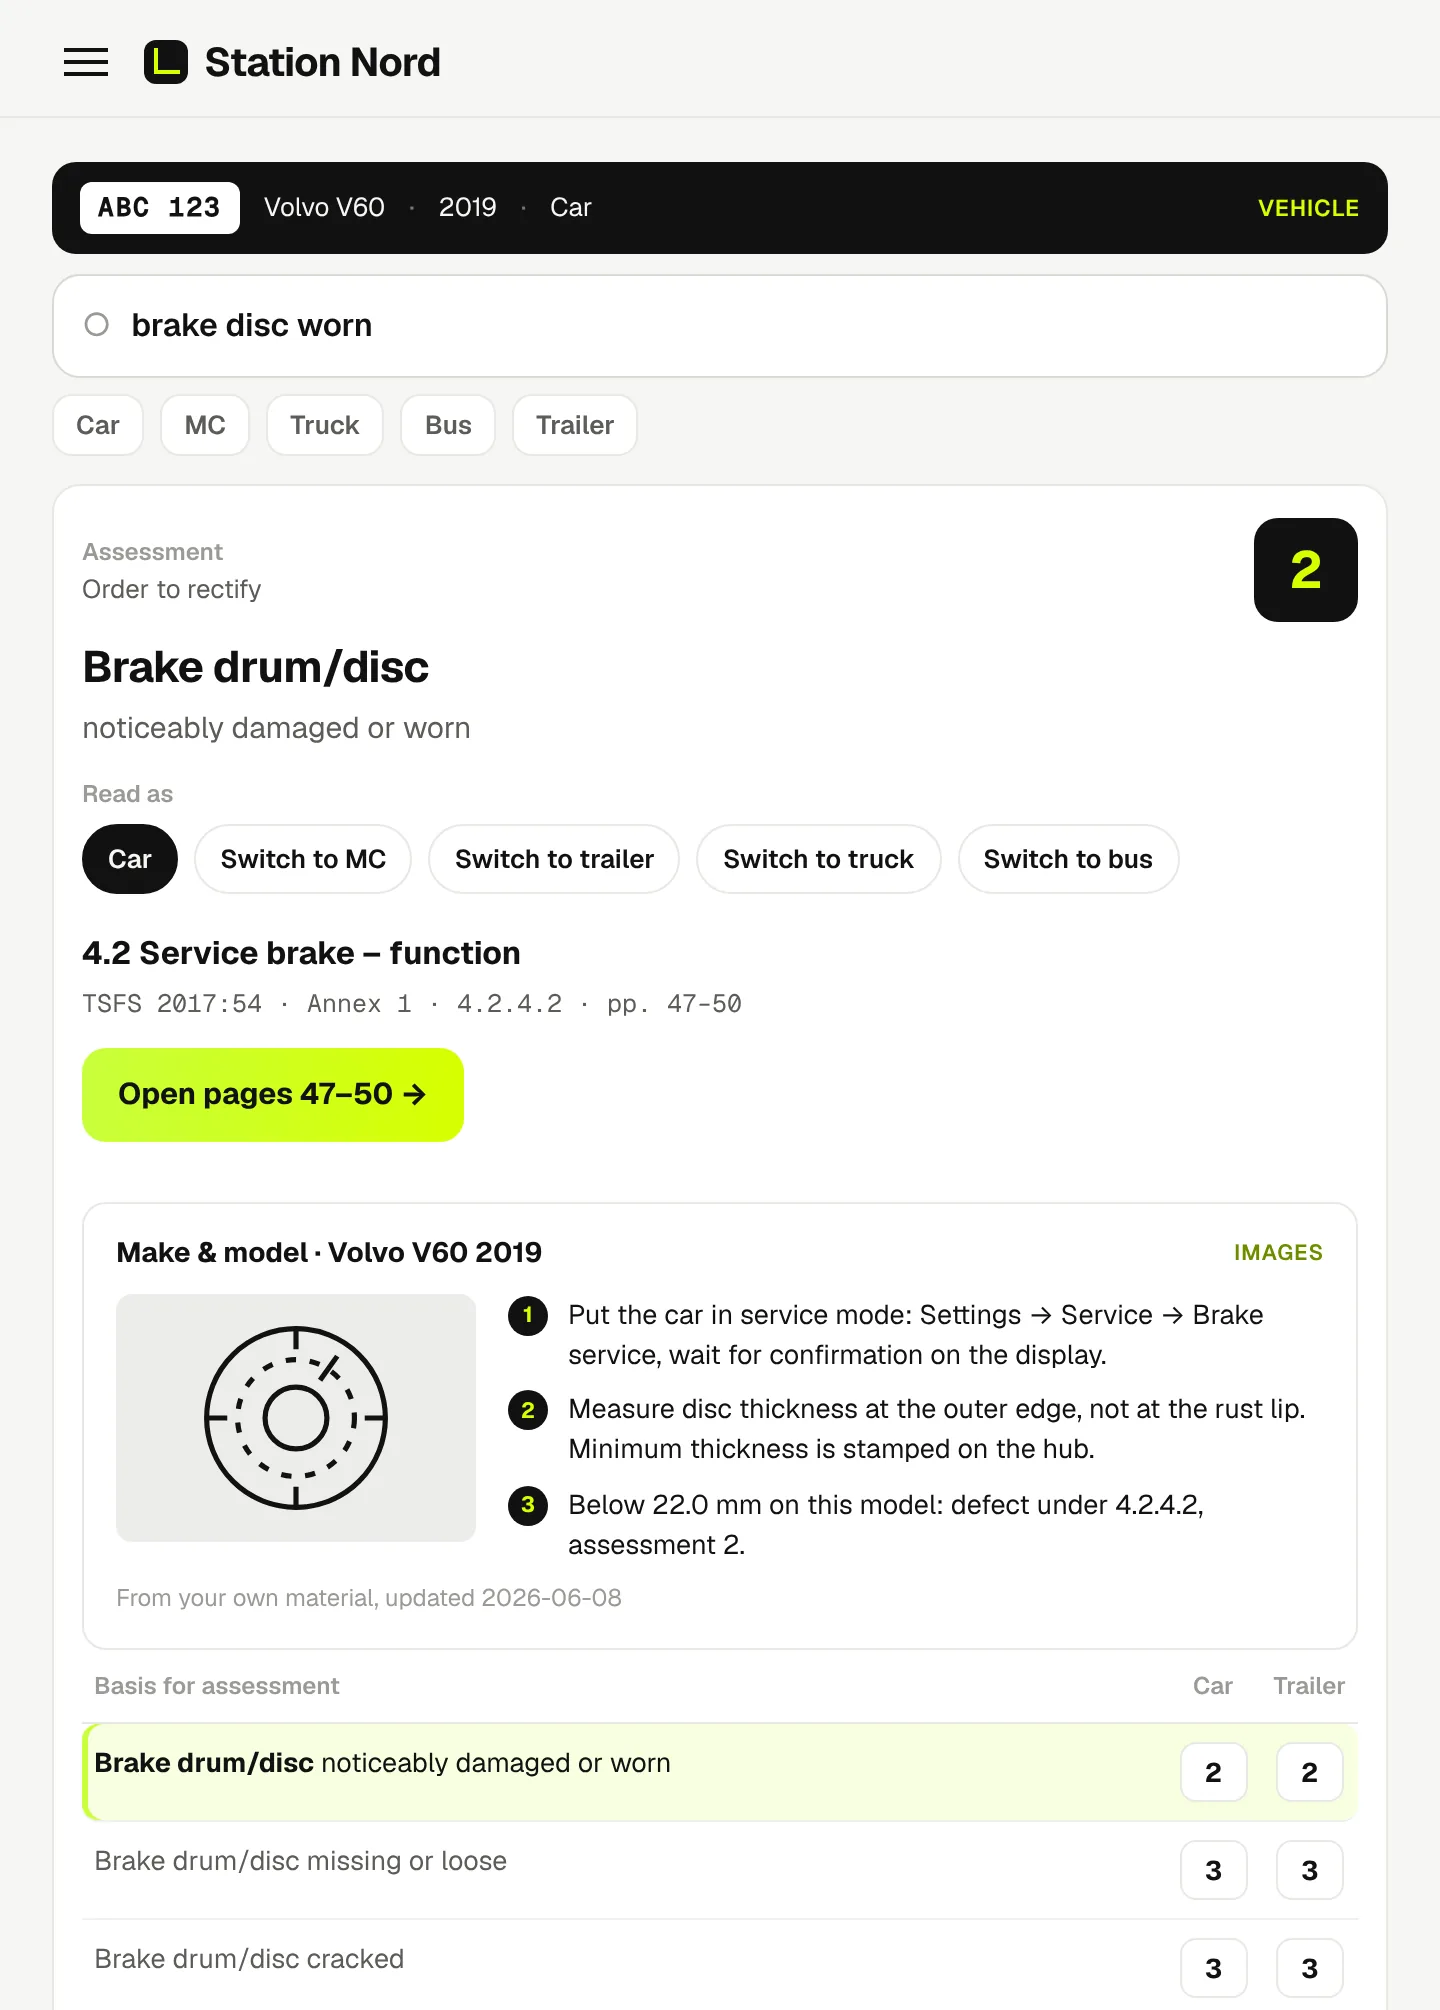
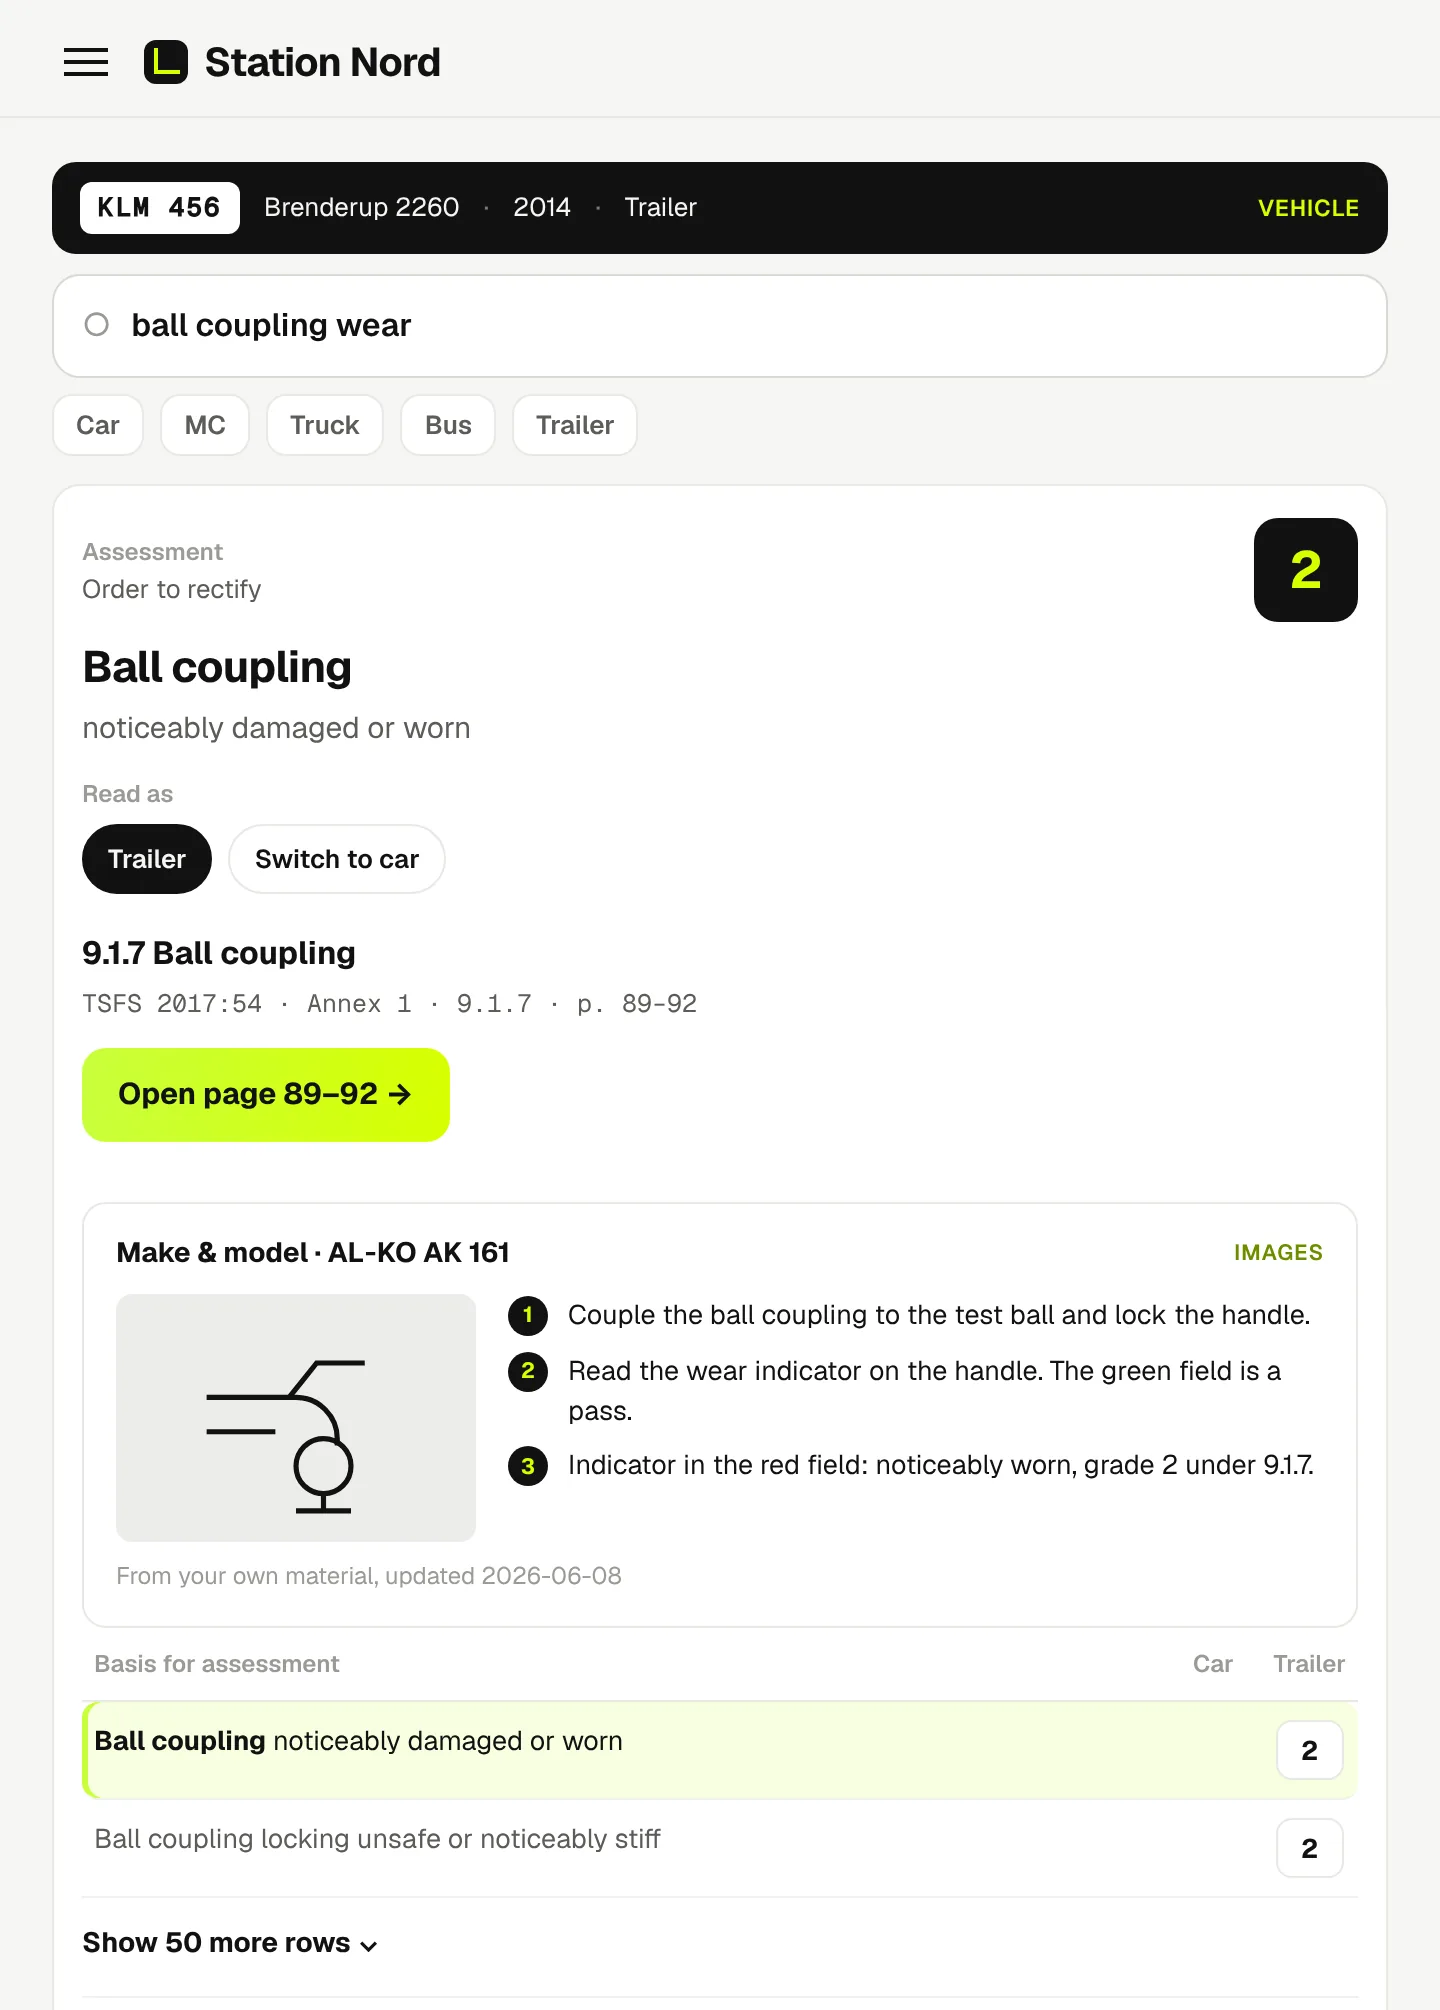
Paddbilden visar kulhandske på släp; löftet om två månaders prov borttaget

diff --git a/index.html b/index.html
@@ -663,7 +663,7 @@ html{scrollbar-color:var(--line2) transparent}
       <p><span class="sv">Ingen app att installera. Teknikern öppnar länken, ställer frågan och har svaret med paragraf innan hen hunnit gå runt bilen.</span><span class="en-t">Nothing to install. The technician opens the link, asks, and has the answer with its paragraph before walking around the car.</span></p>
     </div>
     <div class="vis">
-      <div class="phone tab"><img class="shot sv" loading="lazy" src="prod-tab.webp" width="720" height="1005" alt="Ellavate Handbook på en padda"><img class="shot en-t" loading="lazy" src="prod-tab-en.webp" width="720" height="1005" alt="Ellavate Handbook on a tablet"></div>
+      <div class="phone tab"><img class="shot sv" loading="lazy" src="prod-tab.webp?v=2" width="720" height="1005" alt="Ellavate Handbook på en padda"><img class="shot en-t" loading="lazy" src="prod-tab-en.webp?v=2" width="720" height="1005" alt="Ellavate Handbook on a tablet"></div>
     </div>
   </div>
 
@@ -740,7 +740,7 @@ html{scrollbar-color:var(--line2) transparent}
   <div class="wrap">
     <div class="head">
       <h2><span class="sv">Slå på det ni behöver.</span><span class="en-t">Switch on what you need.</span></h2>
-      <p class="lead"><span class="sv">En månadsavgift, inga startavgifter. Moduler provas två månader innan ni bestämmer er.</span><span class="en-t">One monthly fee, no setup fees. Modules are trialled for two months before you decide.</span></p>
+      <p class="lead"><span class="sv">En månadsavgift, inga startavgifter.</span><span class="en-t">One monthly fee, no setup fees.</span></p>
     </div>
     <div class="mlist">
       <div class="mrow">
